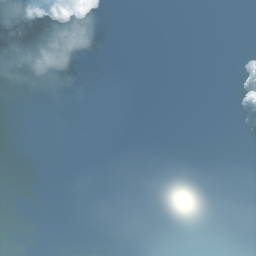
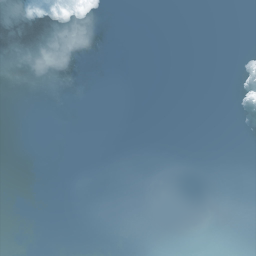
move the sun from an mesh object to the skycube

Changed region(s): [[0.625, 0.6875, 0.8125, 0.9062]]

diff --git a/display_world.py b/display_world.py
@@ -105,12 +105,6 @@ class _InitThread(Thread):
         p.controls = TrackballControls(p.camera, p.container)
         p.camera.controls = p.controls
 
-        # cubemap
-        print("Init CubeMap...")
-        background = THREE.CubeTextureLoader().load(Config['engine']['skycube'])
-        background.format = THREE.RGBFormat
-
-        p.load_percentage += 5
 
         p.clock = THREE.Clock()
 
@@ -130,10 +124,30 @@ class _InitThread(Thread):
         instance_grass_material.uniforms.light.value = p.sun.position
         instance_grass_material.uniforms.ambientLightColor.value = ambLight.color
 
+        # cubemap
+        print("Init CubeMap...")
+        loader = THREE.FileLoader()
+
+        background = THREE.CubeTextureLoader().load(Config['engine']['skycube'])
+        background.format = THREE.RGBFormat
+
+        p.renderer.background.boxMesh_vertex = loader.load('shaders/skybox/vertex.glsl')
+        p.renderer.background.boxMesh_fragment = loader.load('shaders/skybox/fragment.glsl')
+        p.renderer.background.boxMesh_uniforms = {
+                    'tCube': UniformValue(None),
+                    'tFlip': UniformValue(- 1),
+                    'opacity': UniformValue(1.0),
+                    'light': {'type': "v3", 'value': p.sun.position},
+                }
+
+        p.load_percentage += 5
+
         # sun imposter
+        """
         g_sun = THREE.SphereBufferGeometry(2, 8, 8)
         m_sun = THREE.Mesh(g_sun, _material)
         p.sun.add(m_sun)
+        """
 
         # init the scene
         p.scene.add(ambLight)

diff --git a/Assets.py b/Assets.py
@@ -37,7 +37,8 @@ instance_grass_material = THREE.ShaderMaterial({
     'fragmentShader': loader.load('shaders/dynamic_instances/fragment.glsl'),
     'wireframe': False,
     'vertexColors': THREE.Constants.VertexColors,
-    'transparent': True
+    'transparent': True,
+    'side': THREE.Constants.DoubleSide
 })
 
 instance_depth_material = THREE.ShaderMaterial({
